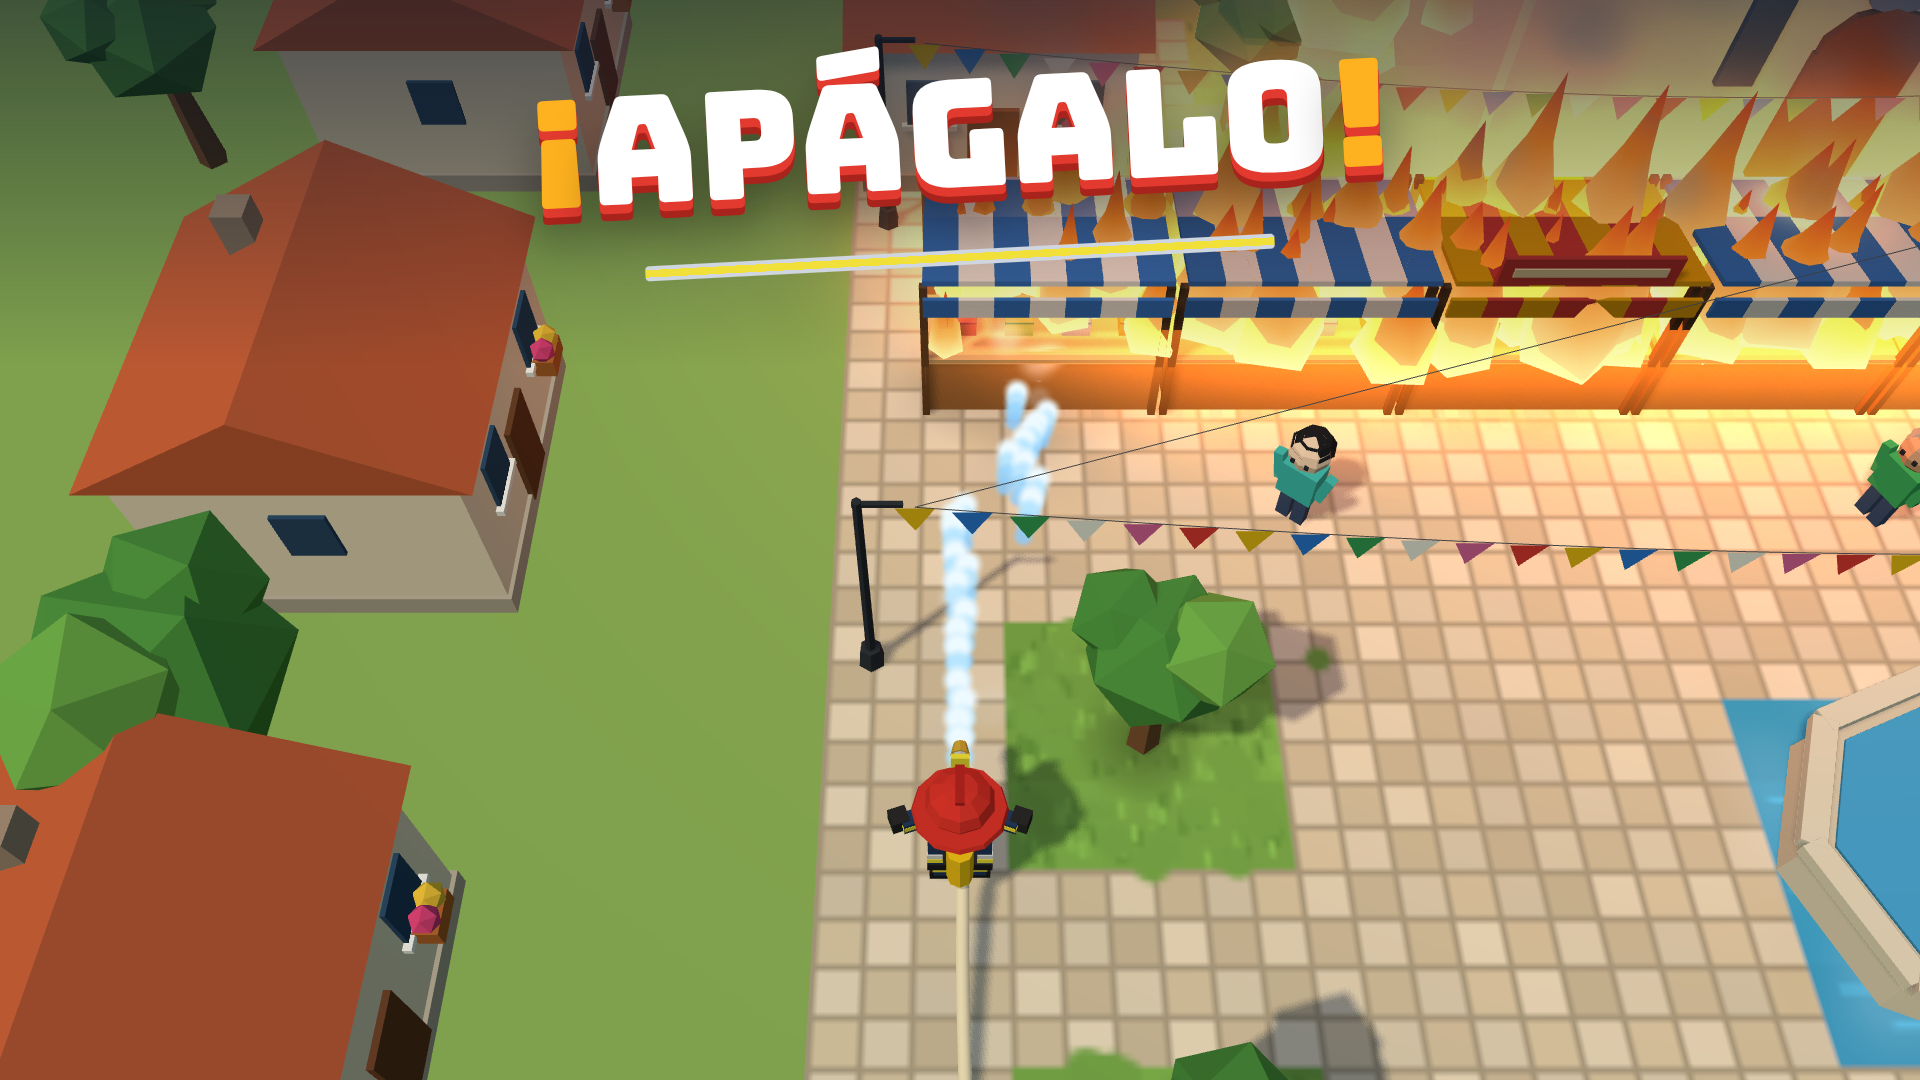
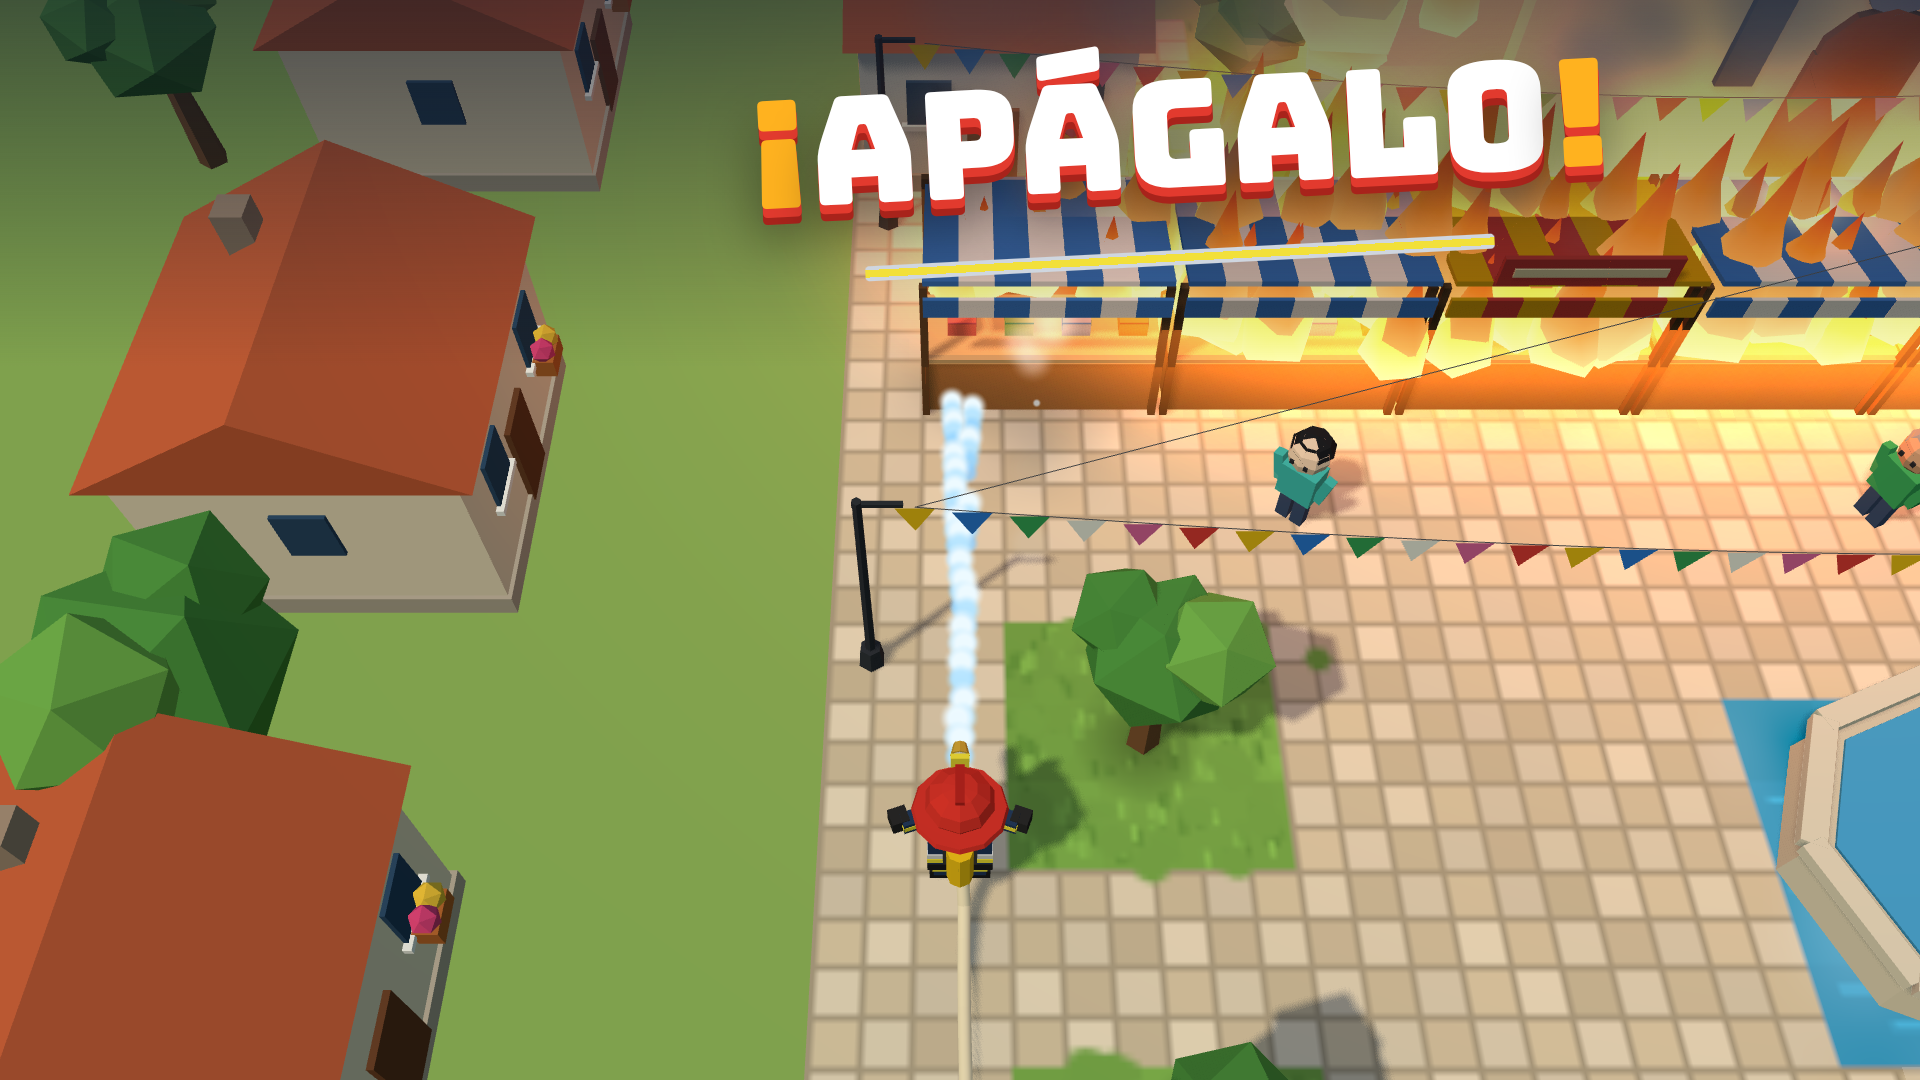
CrazyGames: ficha completa y portadas fuera de la zona de etiquetas
CrazyGames tapa la esquina superior izquierda de las portadas con sus
etiquetas: el título se mueve a la derecha (horizontal), más abajo
(vertical) o más pequeño y a la derecha (cuadrada). Documentado el
estado del envío: solo faltan los datos de cobro y las dos casillas.

Claude-Session: https://claude.ai/code/session_01QmgToeeGN4mTan4UFKf8XV

diff --git a/tools/assets.py b/tools/assets.py
@@ -21,11 +21,11 @@ ICON_SVG = '''<svg xmlns="http://www.w3.org/2000/svg" viewBox="0 0 512 512">
 
 HIDE_UI = "document.head.insertAdjacentHTML('beforeend','<style>#hud,#nozzles,#icons,#floaters,#toast,.tut,.stick,#screens,.banner{display:none!important}</style>')"
 
-def title_html(size, tag=False, top='5%'):
+def title_html(size, tag=False, top='5%', shift=0):
     tagline = '<p style="margin:14px 0 0;font-family:Baloo 2,sans-serif;font-weight:800;font-size:%dpx;color:#fff;text-shadow:0 3px 8px rgba(0,0,0,.7)">Coge la manguera. Salva el pueblo.</p>' % int(size * 0.3) if tag else ''
     return f'''<div id="poster" style="position:fixed;inset:0;z-index:60;pointer-events:none;display:flex;flex-direction:column;align-items:center;padding-top:{top};background:linear-gradient(180deg,rgba(13,21,40,.55) 0%,rgba(13,21,40,0) 34%)">
-<h1 style="font-family:Bungee,Impact,sans-serif;font-weight:400;font-size:{size}px;line-height:1;margin:0;color:#fff;letter-spacing:-.01em;transform:rotate(-3deg);text-shadow:0 {size*0.06:.0f}px 0 #e23a2e,0 {size*0.11:.0f}px 0 #a8231b,0 {size*0.2:.0f}px {size*0.35:.0f}px rgba(0,0,0,.45)"><span style="color:#ffb21f">¡</span>APÁGALO<span style="color:#ffb21f">!</span></h1>
-<div style="width:{size*4.2:.0f}px;height:{max(8,size*0.1):.0f}px;margin-top:{size*0.28:.0f}px;transform:rotate(-3deg);background:linear-gradient(180deg,#cfd6df 0 25%,#f2e03a 25% 75%,#cfd6df 75% 100%);border-radius:4px"></div>
+<h1 style="font-family:Bungee,Impact,sans-serif;font-weight:400;font-size:{size}px;line-height:1;margin:0;color:#fff;letter-spacing:-.01em;transform:translateX({shift}px) rotate(-3deg);text-shadow:0 {size*0.06:.0f}px 0 #e23a2e,0 {size*0.11:.0f}px 0 #a8231b,0 {size*0.2:.0f}px {size*0.35:.0f}px rgba(0,0,0,.45)"><span style="color:#ffb21f">¡</span>APÁGALO<span style="color:#ffb21f">!</span></h1>
+<div style="width:{size*4.2:.0f}px;height:{max(8,size*0.1):.0f}px;margin-top:{size*0.28:.0f}px;transform:translateX({shift}px) rotate(-3deg);background:linear-gradient(180deg,#cfd6df 0 25%,#f2e03a 25% 75%,#cfd6df 75% 100%);border-radius:4px"></div>
 {tagline}</div>'''
 
 SCENE = '''(async (opts) => {
@@ -47,7 +47,7 @@ SCENE = '''(async (opts) => {
   return { burning: s.burning, best };
 })'''
 
-async def shot(p, name, w, h, level, zoom, grow, bot, title_size=None, tag=False, top='5%', dz=0.0):
+async def shot(p, name, w, h, level, zoom, grow, bot, title_size=None, tag=False, top='5%', dz=0.0, shift=0):
     b = await p.chromium.launch(args=ARGS)
     ctx = await b.new_context(viewport={'width': w, 'height': h}, device_scale_factor=1, has_touch=True, is_mobile=w < h, locale='es-ES')
     page = await ctx.new_page()
@@ -61,7 +61,7 @@ async def shot(p, name, w, h, level, zoom, grow, bot, title_size=None, tag=False
     r = await page.evaluate(SCENE + '(%s)' % ('{zoom:%s,grow:%s,bot:%s,dz:%s}' % (zoom, grow, bot, dz)))
     await page.wait_for_timeout(4500)
     if title_size:
-        await page.evaluate("(h)=>document.body.insertAdjacentHTML('beforeend', h)", title_html(title_size, tag, top))
+        await page.evaluate("(h)=>document.body.insertAdjacentHTML('beforeend', h)", title_html(title_size, tag, top, shift))
         await page.wait_for_timeout(900)
     await page.screenshot(path=OUT + name)
     await b.close()
@@ -86,9 +86,11 @@ async def main():
         if which in ('all', 'og'):
             await shot(p, 'og.png', 1200, 630, 0, 1.0, 7, 3.2, 84, tag=True, top='3%', dz=-1.0)
         if which in ('all', 'covers'):
-            await shot(p, 'cg-cover-1920x1080.png', 1920, 1080, 0, 1.0, 7, 3.2, 150, top='3%', dz=-1.0)
-            await shot(p, 'cg-cover-800x1200.png', 800, 1200, 0, 0.72, 7, 3.2, 104, top='6%', dz=-1.6)
-            await shot(p, 'cg-cover-800x800.png', 800, 800, 0, 0.8, 7, 3.2, 96, top='4%', dz=-1.2)
+            # CrazyGames puts labels over the top-left corner of the covers (about a third of the width by a
+            # strip about 3:1 on the wide covers, taller on the square): the title stays out of it
+            await shot(p, 'cg-cover-1920x1080.png', 1920, 1080, 0, 1.0, 7, 3.2, 150, top='3%', dz=-1.0, shift=220)
+            await shot(p, 'cg-cover-800x1200.png', 800, 1200, 0, 0.72, 7, 3.2, 104, top='10.5%', dz=-1.6)
+            await shot(p, 'cg-cover-800x800.png', 800, 800, 0, 0.8, 7, 3.2, 80, top='4%', dz=-1.2, shift=130)
 
 if __name__ == '__main__':
     asyncio.run(main())

diff --git a/docs/crazygames.md b/docs/crazygames.md
@@ -4,12 +4,16 @@ Todo lo necesario para publicar el juego en CrazyGames: estado, archivos, textos
 
 ## Estado (26 sept 2026)
 
-- Cuenta de desarrollador creada y juego en **borrador**, con la versión 1.2.0 subida y validada por su cargador.
-- Pendiente, en este orden:
-  1. **Revisión de calidad (QA tool)**: abrir la vista previa del borrador, pulsar **JUGAR** y jugar unos 20 segundos para que detecte `gameplayStart`. Luego *Continue* y marcar la autoevaluación (esa casilla la confirmas tú).
-  2. **Ficha**: textos de abajo, las 3 portadas y los 2 vídeos.
-  3. **Guardado del progreso**: activar la opción de guardar el progreso (*progress save*) en el envío, porque el juego guarda la partida con su módulo Data.
-  4. **Enviar a revisión** (Basic Launch). El botón final lo pulsas tú.
+- Juego en **borrador, listo para enviar** (paso 4 de 4). Hecho:
+  - Versión 1.2.0 subida (3 archivos en la raíz) con el aviso de privacidad para jugadores nuevos.
+  - Revisión de calidad superada: carga en 2,9 s, `gameplayStart`/`gameplayStop`, `loadingStart`/`loadingStop` y guardado en su nube detectados. Los 8 puntos de la lista marcados como «Yes».
+  - Ficha: categoría **Action**, etiquetas **3D, Top-Down, Hero, Skill, Mission**, descripción y controles (textos de abajo), 3 portadas y 2 vídeos. Guardado del progreso con el módulo Data. Sin enlaces a tiendas (la app de Android aún no es pública).
+- Falta, y lo haces tú:
+  1. **Datos de cobro**: Billing → Manage Payment Details (Tipalti). El portal avisa de que faltan antes de enviar.
+  2. En el paso 4, marcar las dos casillas: aceptar los términos del portal y confirmar que el juego es apto para mayores de 12 años (PEGI 12).
+  3. Pulsar **Submit for approval**.
+
+Las portadas llevan el título fuera de la esquina superior izquierda, porque CrazyGames pone ahí sus etiquetas (NEW, HOT…): en la horizontal está desplazado a la derecha, en la vertical más abajo y en la cuadrada más pequeño y a la derecha.
 
 ## Archivos
 

diff --git a/README.md b/README.md
@@ -6,7 +6,7 @@ Arcade casual en 3D low-poly: eres un bombero con la manguera atada al camión y
 |---|---|
 | Web | https://apagalo.vercel.app (publicada) |
 | Google Play | Prueba cerrada «Prueba cerrada - Alpha» desde el 25 sept 2026 (12 testers × 14 días antes de pedir producción). Captación: https://apagalo.vercel.app/testers |
-| CrazyGames | Borrador subido, pendiente de la revisión de calidad y del envío |
+| CrazyGames | Borrador completo, listo para enviar a revisión (Basic Launch) |
 
 Estado detallado, siguientes pasos y dónde vive cada cosa (cuentas, carpetas, servicios): [docs/README.md](docs/README.md).
 
@@ -103,5 +103,5 @@ select * from apagalo_cohortes;  -- nuevos por día con D1 y D7
 ## Siguientes pasos
 
 1. Google Play: llegar a 12 testers (y añadir el grupo de LaunchReady), mantenerlos 14 días, recoger sus comentarios y pedir el acceso a producción (guía en `docs/testers.md`). Aprovechar para subir la 1.2.1 (`versionCode` 2) con los cambios que salgan de la prueba.
-2. CrazyGames: terminar la revisión de calidad y enviar a Basic Launch (`docs/crazygames.md`).
+2. CrazyGames: completar los datos de cobro y enviar a Basic Launch (`docs/crazygames.md`).
 3. Tras 7-14 días con tráfico, decidir con los criterios de `docs/concepto.md` mirando `apagalo_kpis` y `apagalo_niveles`.

diff --git a/docs/README.md b/docs/README.md
@@ -16,7 +16,7 @@ Lo técnico (estructura del código, comandos, analítica, calidad gráfica) est
 |---|---|---|
 | Web | Publicada en https://apagalo.vercel.app (1.2.0), con analítica y la página `/testers` | Mover tráfico y mirar los datos |
 | Google Play | Prueba cerrada aprobada el 25 sept. Grupo de testers con 6 miembros contando contigo | Llegar a 12 testers, añadir el grupo de LaunchReady y aguantar 14 días. Luego pedir producción |
-| CrazyGames | Borrador con la build validada | Revisión de calidad (jugar en la vista previa), ficha, portadas, vídeos, guardado del progreso y enviar |
+| CrazyGames | Borrador completo: build, revisión de calidad y ficha hechas | Rellenar los datos de cobro (Tipalti), aceptar términos y PEGI 12 y enviar |
 | GitHub | Repositorio https://github.com/Nocodeboy/apagalo (26 sept) | Subir aquí cada cambio |
 
 Decisión pendiente (después de 7-14 días con jugadores): mirar `apagalo_kpis` y `apagalo_niveles` en Supabase y aplicar los criterios de `concepto.md`.
